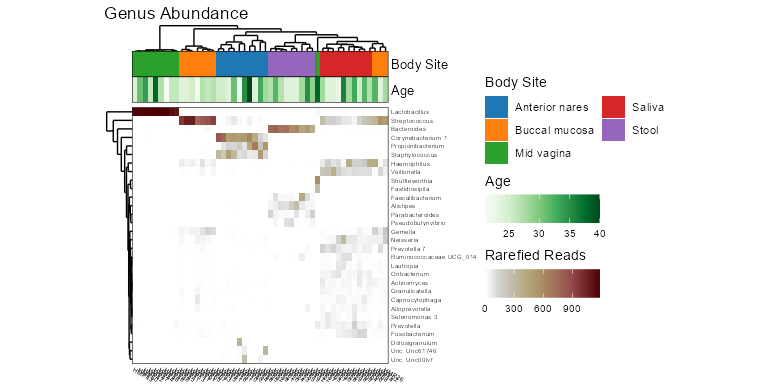
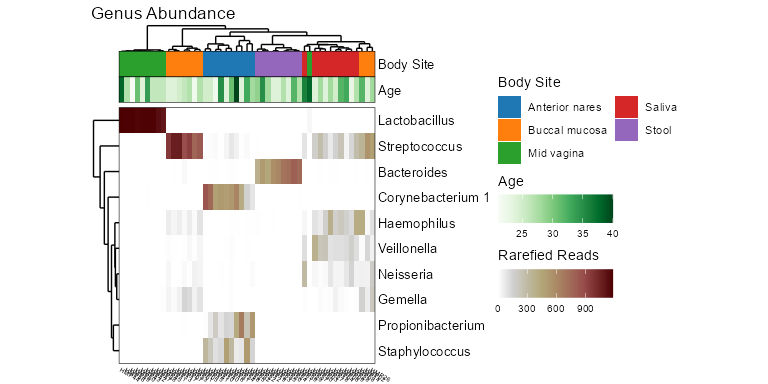
patchwork plots ready for ggplot2 v4

Changed region(s): [[0.0938, 0.0, 0.875, 1.0]]

diff --git a/LICENSE.md b/LICENSE.md
@@ -1,0 +1,21 @@
+# MIT License
+
+Copyright (c) 2025 rbiom authors
+
+Permission is hereby granted, free of charge, to any person obtaining a copy
+of this software and associated documentation files (the "Software"), to deal
+in the Software without restriction, including without limitation the rights
+to use, copy, modify, merge, publish, distribute, sublicense, and/or sell
+copies of the Software, and to permit persons to whom the Software is
+furnished to do so, subject to the following conditions:
+
+The above copyright notice and this permission notice shall be included in all
+copies or substantial portions of the Software.
+
+THE SOFTWARE IS PROVIDED "AS IS", WITHOUT WARRANTY OF ANY KIND, EXPRESS OR
+IMPLIED, INCLUDING BUT NOT LIMITED TO THE WARRANTIES OF MERCHANTABILITY,
+FITNESS FOR A PARTICULAR PURPOSE AND NONINFRINGEMENT. IN NO EVENT SHALL THE
+AUTHORS OR COPYRIGHT HOLDERS BE LIABLE FOR ANY CLAIM, DAMAGES OR OTHER
+LIABILITY, WHETHER IN AN ACTION OF CONTRACT, TORT OR OTHERWISE, ARISING FROM,
+OUT OF OR IN CONNECTION WITH THE SOFTWARE OR THE USE OR OTHER DEALINGS IN THE
+SOFTWARE.

diff --git a/README.md b/README.md
@@ -64,7 +64,8 @@ adiv_boxplot(biom, x = "Sex", adiv = c("otu", "shan"), stat.by = "Body Site")
 ![](man/figures/README-bdiv-2.png)<!-- -->
 
 ``` r
-taxa_corrplot(biom, x = "Age", layers = "ptc", taxa = 2, stat.by = "bod")
+subset(biom, `Body Site` == 'Buccal mucosa') %>% 
+  taxa_corrplot("Age", taxa = 2, layers = 'ptc', fit = 'lm', test = 'emtrends')
 ```
 
 ![](man/figures/README-bdiv-3.png)<!-- -->
@@ -72,7 +73,7 @@ taxa_corrplot(biom, x = "Age", layers = "ptc", taxa = 2, stat.by = "bod")
 #### Summarize counts by taxonomic rank.
 
 ``` r
-taxa_heatmap(biom, taxa = 30, tracks = c("body", "age"))
+taxa_heatmap(biom, taxa = 10, tracks = c("body", "age"))
 ```
 
 ![](man/figures/README-taxa-1.png)<!-- -->
